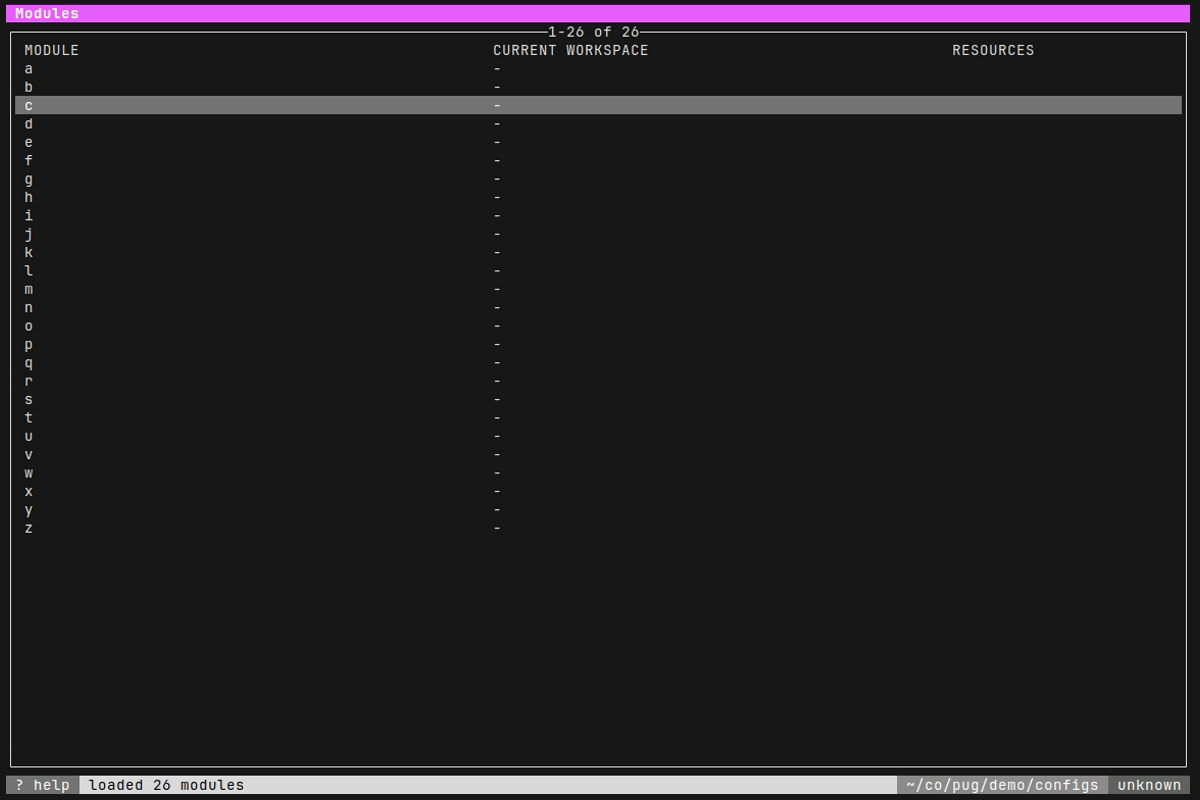
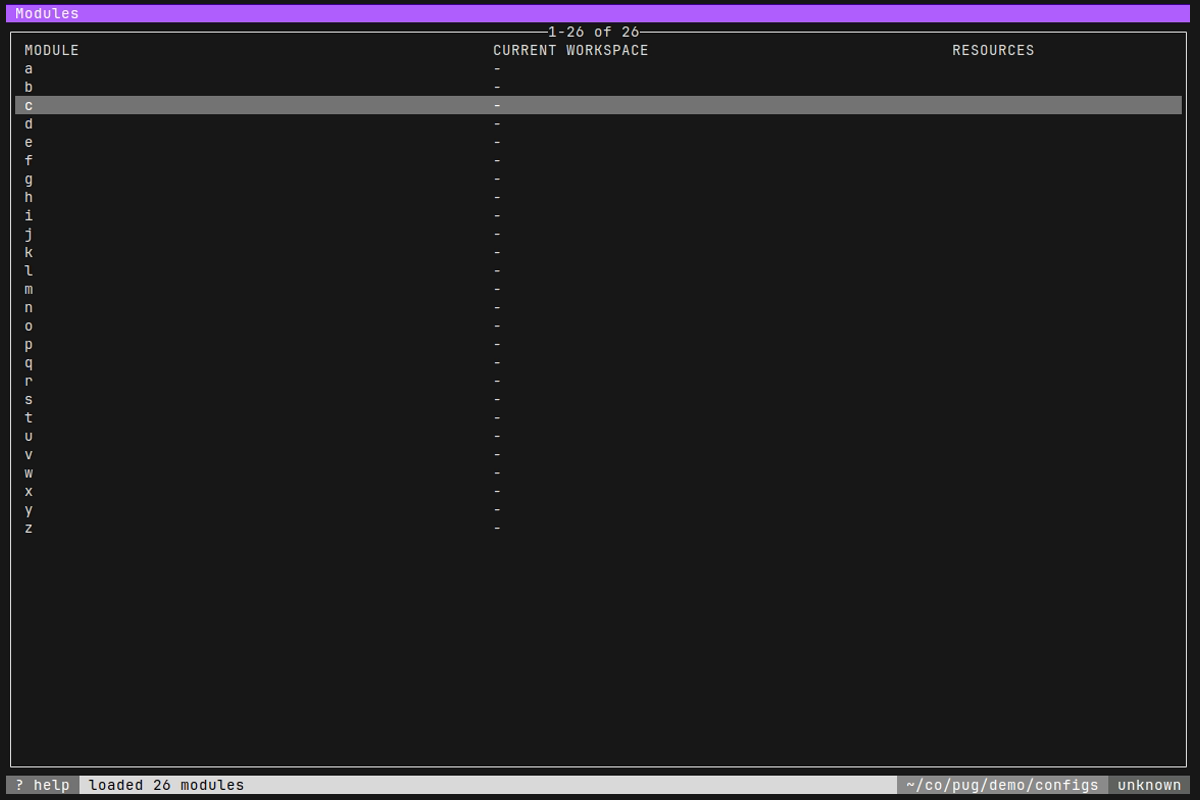
chore: make colors somewhat less garish

Changed region(s): [[0.0, 0.0, 1.0, 0.0312]]

diff --git a/internal/tui/color.go b/internal/tui/color.go
@@ -6,7 +6,7 @@ const (
 	Black           = lipgloss.Color("#000000")
 	DarkRed         = lipgloss.Color("#FF0000")
 	Red             = lipgloss.Color("#FF5353")
-	Pink            = lipgloss.Color("#E760FC")
+	Purple          = lipgloss.Color("135")
 	Orange          = lipgloss.Color("214")
 	Yellow          = lipgloss.Color("#DBBD70")
 	Green           = lipgloss.Color("34")
@@ -50,10 +50,10 @@ var (
 
 	CurrentBackground            = Grey
 	CurrentForeground            = White
-	SelectedBackground           = lipgloss.Color("#fcbbf0")
+	SelectedBackground           = lipgloss.Color("110")
 	SelectedForeground           = Black
-	CurrentAndSelectedBackground = lipgloss.Color("#c997c0")
-	CurrentAndSelectedForeground = White
+	CurrentAndSelectedBackground = lipgloss.Color("117")
+	CurrentAndSelectedForeground = Black
 
 	TitleColor = lipgloss.AdaptiveColor{
 		Dark:  "",

diff --git a/internal/app/module_test.go b/internal/app/module_test.go
@@ -319,7 +319,7 @@ func setupAndInitModule(t *testing.T) *testModel {
 	// Go to modules listing
 	tm.Type("m")
 
-	// Expect single modules to be listed
+	// Expect single module to be listed
 	waitFor(t, tm, func(s string) bool {
 		return strings.Contains(s, "modules/a")
 	})
@@ -333,7 +333,7 @@ func setupAndInitModule(t *testing.T) *testModel {
 	// Go back to modules listing
 	tm.Send(tea.KeyMsg{Type: tea.KeyEsc})
 
-	// Expect singgle modules to be listed, along with its default workspace.
+	// Expect single module to be listed, along with its default workspace.
 	waitFor(t, tm, func(s string) bool {
 		return matchPattern(t, "modules/a.*default", s)
 	})

diff --git a/internal/tui/style.go b/internal/tui/style.go
@@ -14,7 +14,7 @@ var (
 	Border      = Regular.Copy().Border(lipgloss.NormalBorder())
 	ThickBorder = Regular.Copy().Border(lipgloss.ThickBorder()).BorderForeground(Violet)
 
-	Title          = Bold.Copy().Padding(0, 1).Background(Pink).Foreground(White)
+	Title          = Padded.Copy().Foreground(White).Background(Purple)
 	TitleCommand   = Padded.Copy().Foreground(White).Background(Blue)
 	TitlePath      = Padded.Copy().Foreground(White).Background(modulePathColor)
 	TitleWorkspace = Padded.Copy().Foreground(White).Background(Green)

diff --git a/internal/tui/top/model.go b/internal/tui/top/model.go
@@ -316,7 +316,7 @@ func (m model) View() string {
 		leftover -= tui.Width(status)
 	}
 	// Fill in left over space in between title and status with background color
-	header += tui.Regular.Width(leftover).Background(tui.Pink).Render()
+	header += tui.Regular.Width(leftover).Background(tui.Purple).Render()
 	header += status
 	// Style the header
 	header = lipgloss.NewStyle().
